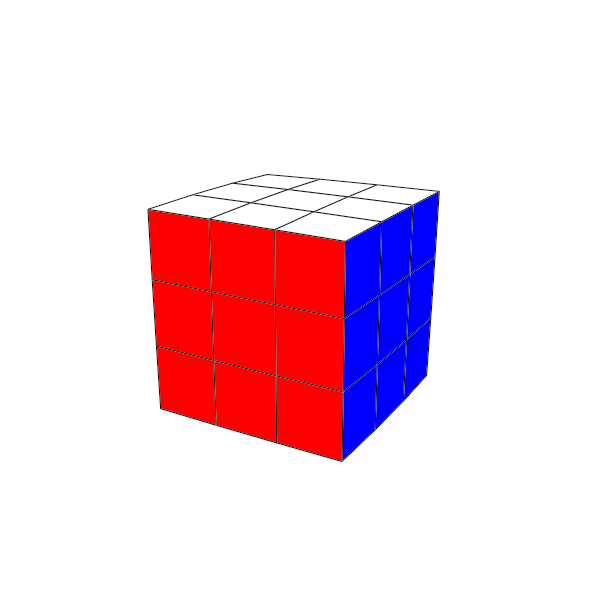
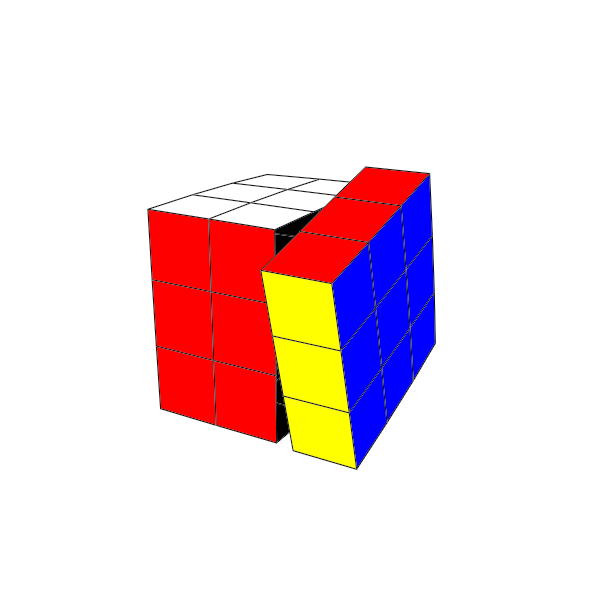
Animated rotation
#4

Changed region(s): [[0.42, 0.27, 0.75, 0.78], [0.33, 0.6, 0.36, 0.63], [0.33, 0.36, 0.36, 0.39]]

diff --git a/src/main.py b/src/main.py
@@ -55,6 +55,14 @@ subface = [[0,0,0,0,0,0,0,0,0],
 
 perspective = 45
 
+rotation_default_direction = [-1,-1,1,1,1,-1]
+rotation_direction = 1
+rotation_axis = [0,2,0,2,1,1]
+rotation_angle = [0,0,0,0,0,0]
+rotation_angle_step = 5
+rotation_side = -1
+animating = 0
+
 def set_cube(configuration):
     if len(configuration)!=6:
         print('error in configuration:', configuration)
@@ -130,7 +138,15 @@ class Game(arcade.Window):
         
         self.show_text = True
         
-    def rotatex(cds, deg):
+    def rotate(self, axis, cds, deg):
+        if axis == 0:
+            return self.rotatex(cds, deg)
+        elif axis == 1:
+            return self.rotatey(cds, deg)
+        elif axis == 2:
+            return self.rotatez(cds, deg)
+            
+    def rotatex(self, cds, deg):
         coords = copy.deepcopy(cds)
         rad = math.radians(deg)
         s = math.sin(rad)
@@ -144,7 +160,7 @@ class Game(arcade.Window):
         
         return coords
         
-    def rotatey(cds, deg):
+    def rotatey(self, cds, deg):
         coords = copy.deepcopy(cds)
         rad = math.radians(deg)
         s = math.sin(rad)
@@ -158,7 +174,7 @@ class Game(arcade.Window):
         
         return coords
         
-    def rotatez(cds, deg):
+    def rotatez(self, cds, deg):
         coords = copy.deepcopy(cds)
         rad = math.radians(deg)
         s = math.sin(rad)
@@ -172,6 +188,14 @@ class Game(arcade.Window):
         
         return coords
         
+    def rotatep(self, axis, p, s, c):
+        if axis==0:
+            return [p[0], p[1] * c - p[2] * s, p[1] * s + p[2] * c]
+        if axis==1:
+            return [p[0] * c + p[2] * s, p[1], -p[0] * s + p[2] * c]
+        if axis==2:
+            return [p[0] * c - p[1] * s, p[0] * s + p[1] * c, p[2]]
+            
     def setup(self):
         coords = []
         # left face
@@ -189,11 +213,11 @@ class Game(arcade.Window):
         self.face_coords = []
         self.face_coords.append(coords)
         
-        self.face_coords.append(Game.rotatey(coords, -90))
-        self.face_coords.append(Game.rotatey(coords, -180))
-        self.face_coords.append(Game.rotatey(coords, -270))
-        self.face_coords.append(Game.rotatez(coords, -90))
-        self.face_coords.append(Game.rotatez(coords, 90))
+        self.face_coords.append(self.rotatey(coords, -90))
+        self.face_coords.append(self.rotatey(coords, -180))
+        self.face_coords.append(self.rotatey(coords, -270))
+        self.face_coords.append(self.rotatez(coords, -90))
+        self.face_coords.append(self.rotatez(coords, 90))
         
     def do_action(self, side, ccw = False):
         action = str(side)
@@ -237,13 +261,18 @@ class Game(arcade.Window):
             self.rotate_side_ccw(side)
             
     def right_mouse_pressed(self, x, y, alt_press=False):
+        global rotation_direction, animating
+        
+        if animating>0:
+            return
+            
         ix = x + 1000
         
         found = False
         for si in range(6):
             # rotate the cube
-            rc = Game.rotatey(self.face_coords[si], self.rotation_y)
-            rc = Game.rotatex(rc, self.rotation_x)
+            rc = self.rotatey(self.face_coords[si], self.rotation_y)
+            rc = self.rotatex(rc, self.rotation_x)
             # which direction is the side facing
             # using the middle face of the side
             ax, ay, az = rc[4][0]
@@ -274,7 +303,11 @@ class Game(arcade.Window):
             self.selected_side = si
             self.selected_face = f
             #if f==4: # center face
-            self.do_action(si, alt_press)
+            rotation_angle[si] = 90
+            rotation_direction = rotation_default_direction[si]
+            if alt_press:
+                rotation_direction *= -1
+            animating = 2
                 
     def rotate_side_ccw(self, side):
         # rotate the side
@@ -324,37 +357,79 @@ class Game(arcade.Window):
             subface[n][tcf[1]], tn7 = tn7, subface[n][tcf[1]]
             subface[n][tcf[2]], tn8 = tn8, subface[n][tcf[2]]
         
+    class PolyToDraw:
+        def __init__(self, z, coords, color):
+            self.z = z
+            self.coords = coords
+            self.color = color
+            
     def on_draw(self):
+        global rotation_angle, animating, rotation_side
+        
         arcade.start_render()
         
+        polys = []
+        rotated = []
+        # rotate for animation
+        if animating == 1:
+            self.do_action(rotation_side, rotation_direction != rotation_default_direction[rotation_side])
+            animating = 0
+            
+        for side in range(6):
+            if rotation_angle[side]==0:
+                rotated.append(copy.deepcopy(self.face_coords[side]))
+            else:
+                rotated.append(self.rotate(rotation_axis[side], self.face_coords[side], (90-rotation_angle[side])*rotation_direction))
+            
+        for side in range(6):
+            if rotation_angle[side]==0:
+                continue
+            rad = math.radians((90-rotation_angle[side])*rotation_direction)
+            sn = math.sin(rad)
+            cs = math.cos(rad)
+            for n in sideneighbors[side]:
+                sideconind = sideconnections[side][n]
+                cfs = connectedfaces[sideconind]
+                for cf in cfs:
+                    for p in rotated[n][cf]:
+                        p[0],p[1],p[2] = self.rotatep(rotation_axis[side], p, sn, cs)
+            rotation_angle[side] -= rotation_angle_step
+            if rotation_angle[side]==0:
+                animating = 1
+                rotation_side = side
+            
         for si in range(6):
             # rotate the cube
-            rc = Game.rotatey(self.face_coords[si], self.rotation_y)
-            rc = Game.rotatex(rc, self.rotation_x)
-            # which direction is the side facing
-            # using the middle face of the side
-            ax, ay, az = rc[4][0]
-            bx, by, bz = rc[4][1]
-            cx, cy, cz = rc[4][2]
-            az = (perspective-az)/perspective
-            bz = (perspective-bz)/perspective
-            cz = (perspective-cz)/perspective
-            crz = (ax*az-bx*bz)*(cy*cz-by*bz) - (ay*az-by*bz)*(cx*cz-bx*bz)
-            if crz>0: # only display facing sides
-                faces = subface[si]
-                for f in range(9):
-                    coords = []
-                    for i in range(4):
-                        z = (perspective-rc[f][i][2])/perspective
-                        #print(z)
-                        coords.append([rc[f][i][0]*self.scale*z+self.translate_x, rc[f][i][1]*self.scale*z+self.translate_y])
+            rc = self.rotatey(rotated[si], self.rotation_y)
+            rc = self.rotatex(rc, self.rotation_x)
+            faces = subface[si]
+            for f in range(9):
+                # which direction is the side facing
+                # using the middle face of the side
+                ax, ay, az = rc[f][0]
+                bx, by, bz = rc[f][1]
+                cx, cy, cz = rc[f][2]
+                
+                az = (perspective-az)/perspective
+                bz = (perspective-bz)/perspective
+                cz = (perspective-cz)/perspective
+                crz = (ax*az-bx*bz)*(cy*cz-by*bz) - (ay*az-by*bz)*(cx*cz-bx*bz)
+                coords = []
+                avgz = 0
+                for i in range(4):
+                    avgz += rc[f][i][2]
+                    z = (perspective-rc[f][i][2])/perspective
+                    coords.append([rc[f][i][0]*self.scale*z+self.translate_x, rc[f][i][1]*self.scale*z+self.translate_y])
                         
-                    arcade.draw_polygon_filled(coords, sidecolors[faces[f]])
-                    if self.right_mouse_down and self.selected_side==si and self.selected_face==f:
-                        arcade.draw_polygon_outline(coords, arcade.color.BLACK, 3)
-                    else:
-                        arcade.draw_polygon_outline(coords, arcade.color.BLACK)
-        
+                if crz>0:
+                    polys.append(Game.PolyToDraw(avgz/4, coords, sidecolors[faces[f]]))
+                else: # display backfaces as black
+                    polys.append(Game.PolyToDraw(avgz/4, coords, arcade.color.BLACK))
+                
+        for p in sorted(polys, key=lambda x: x.z, reverse=True):
+            arcade.draw_polygon_filled(p.coords, p.color)
+            arcade.draw_polygon_outline(p.coords, arcade.color.BLACK)
+            
         if self.show_text:
             txt = 'Rubik\'s Cube'
             arcade.draw_text(txt, 300, 580, [0,0,0,200], 24, width=500, align="center", anchor_x="center", anchor_y="center")
